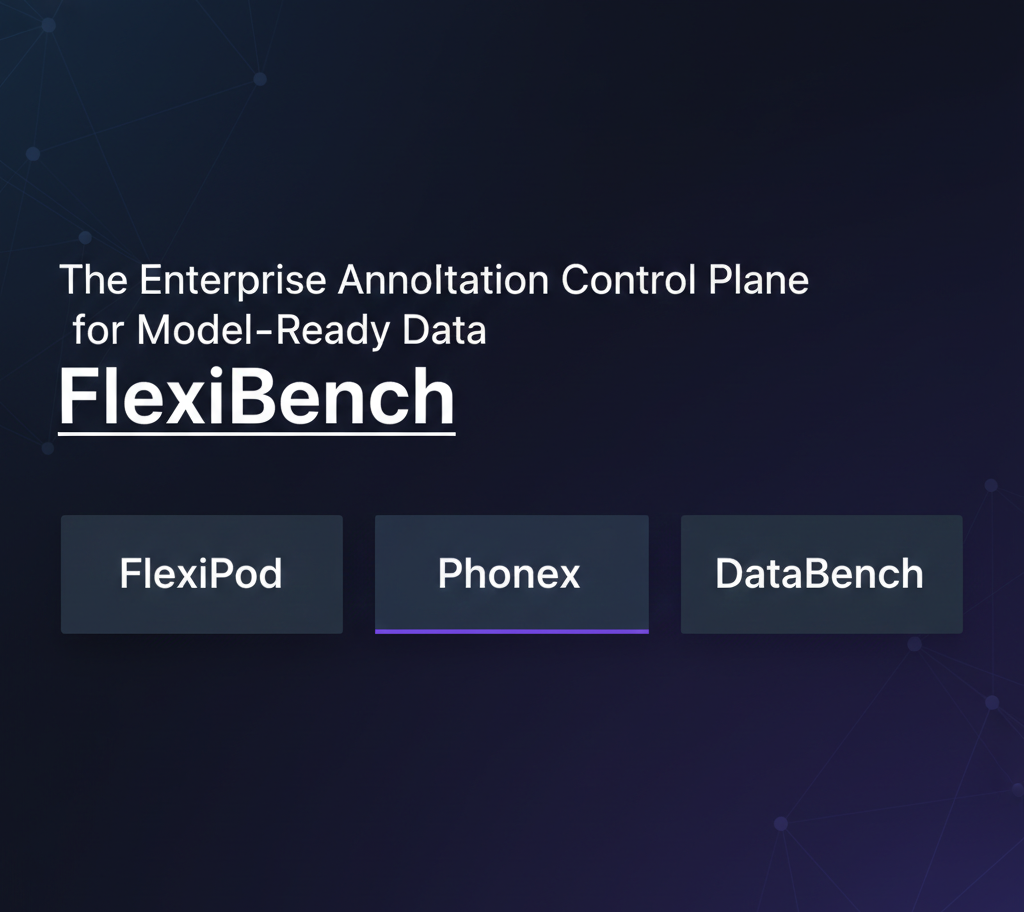
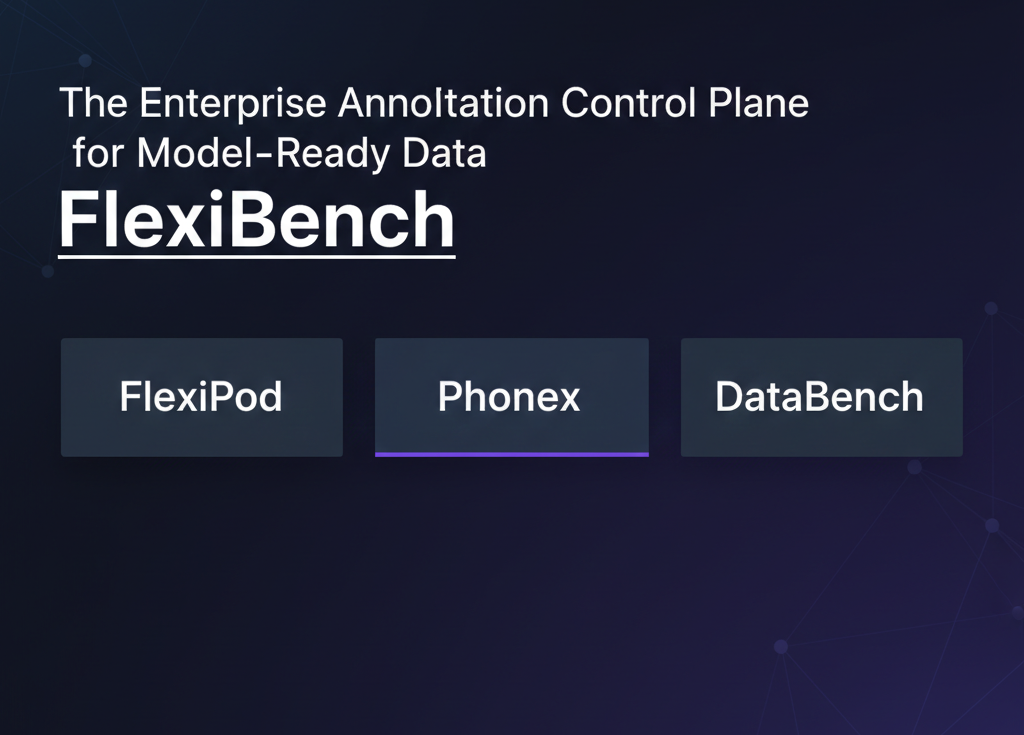
fix: update tsconfig and improve layout in PlatformPage
- Change JSX setting in tsconfig.json from 'react-jsx' to 'preserve'
- Adjust margin in PlatformPage for better layout consistency
- Update Platform_hero.png for enhanced visual quality

Changed region(s): [[0.0312, 0.1197, 0.9375, 0.5687], [0.0625, 0.5986, 0.9375, 0.7184], [0.75, 0.868, 0.7812, 0.898]]

diff --git a/app/platform/page.tsx b/app/platform/page.tsx
@@ -65,7 +65,7 @@ export default function PlatformPage() {
             
             {/* Right Column - Image */}
             <div className="flex-1 w-full">
-              <div className="relative rounded-2xl overflow-hidden shadow-2xl border border-white/20 group">
+              <div className="relative rounded-2xl overflow-hidden shadow-2xl border border-white/20 group -mt-8 lg:-mt-12">
                 <AspectRatio ratio={16 / 10}>
                   <Image
                     src="/Platform_hero.png"
